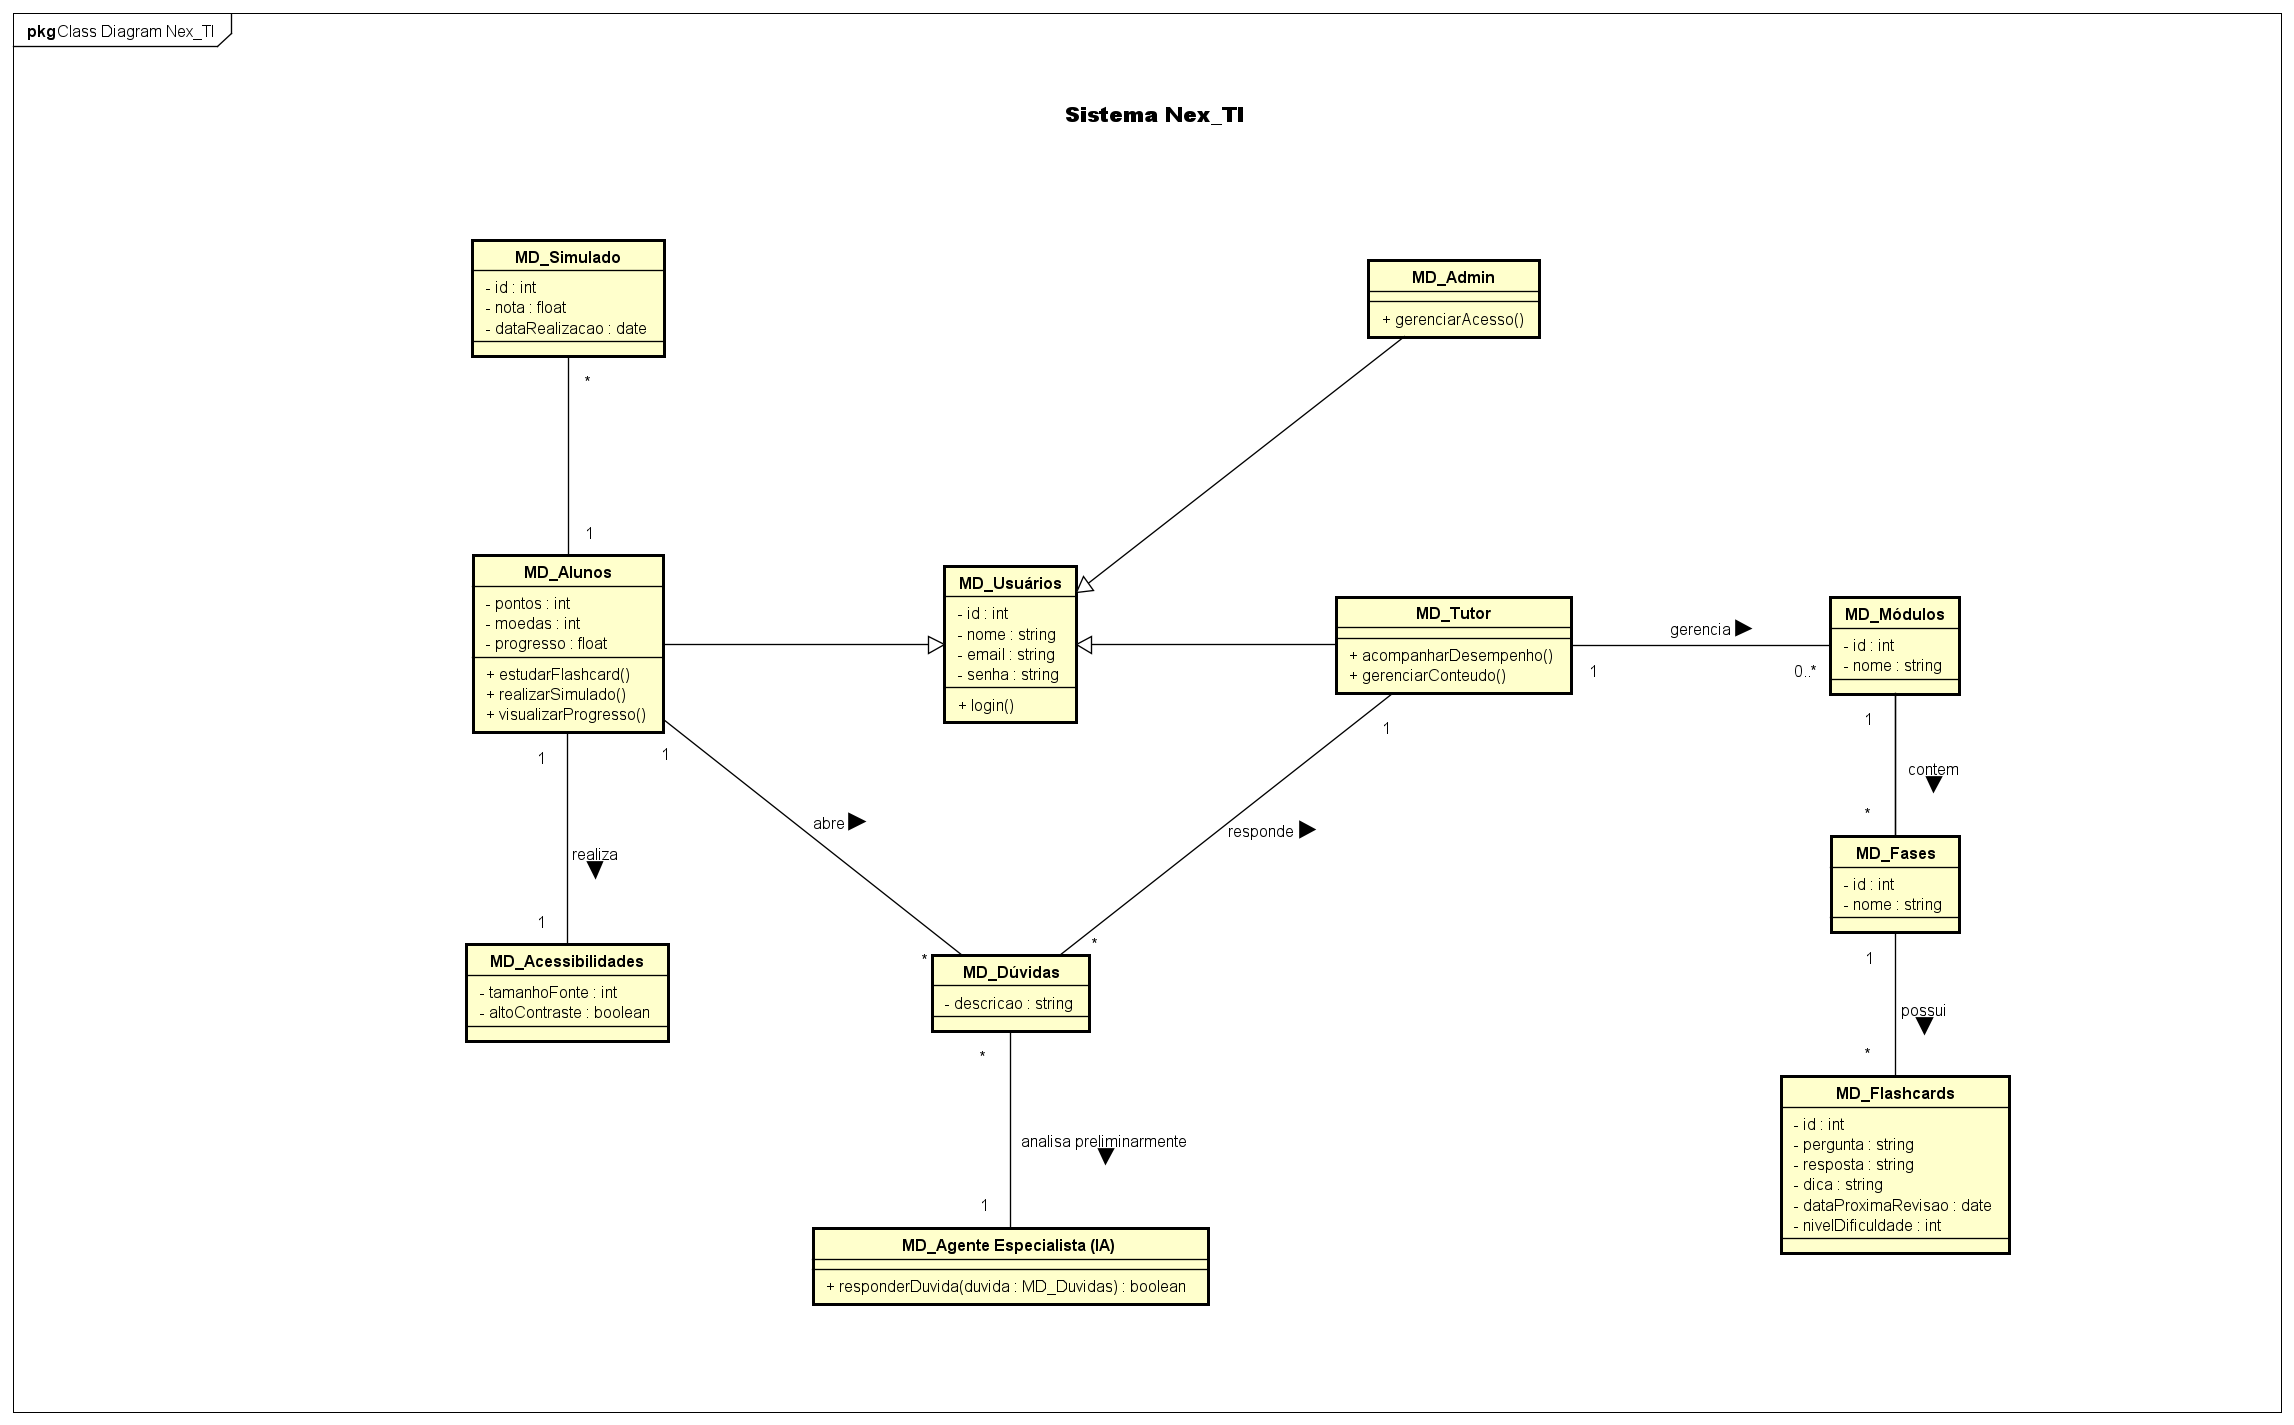
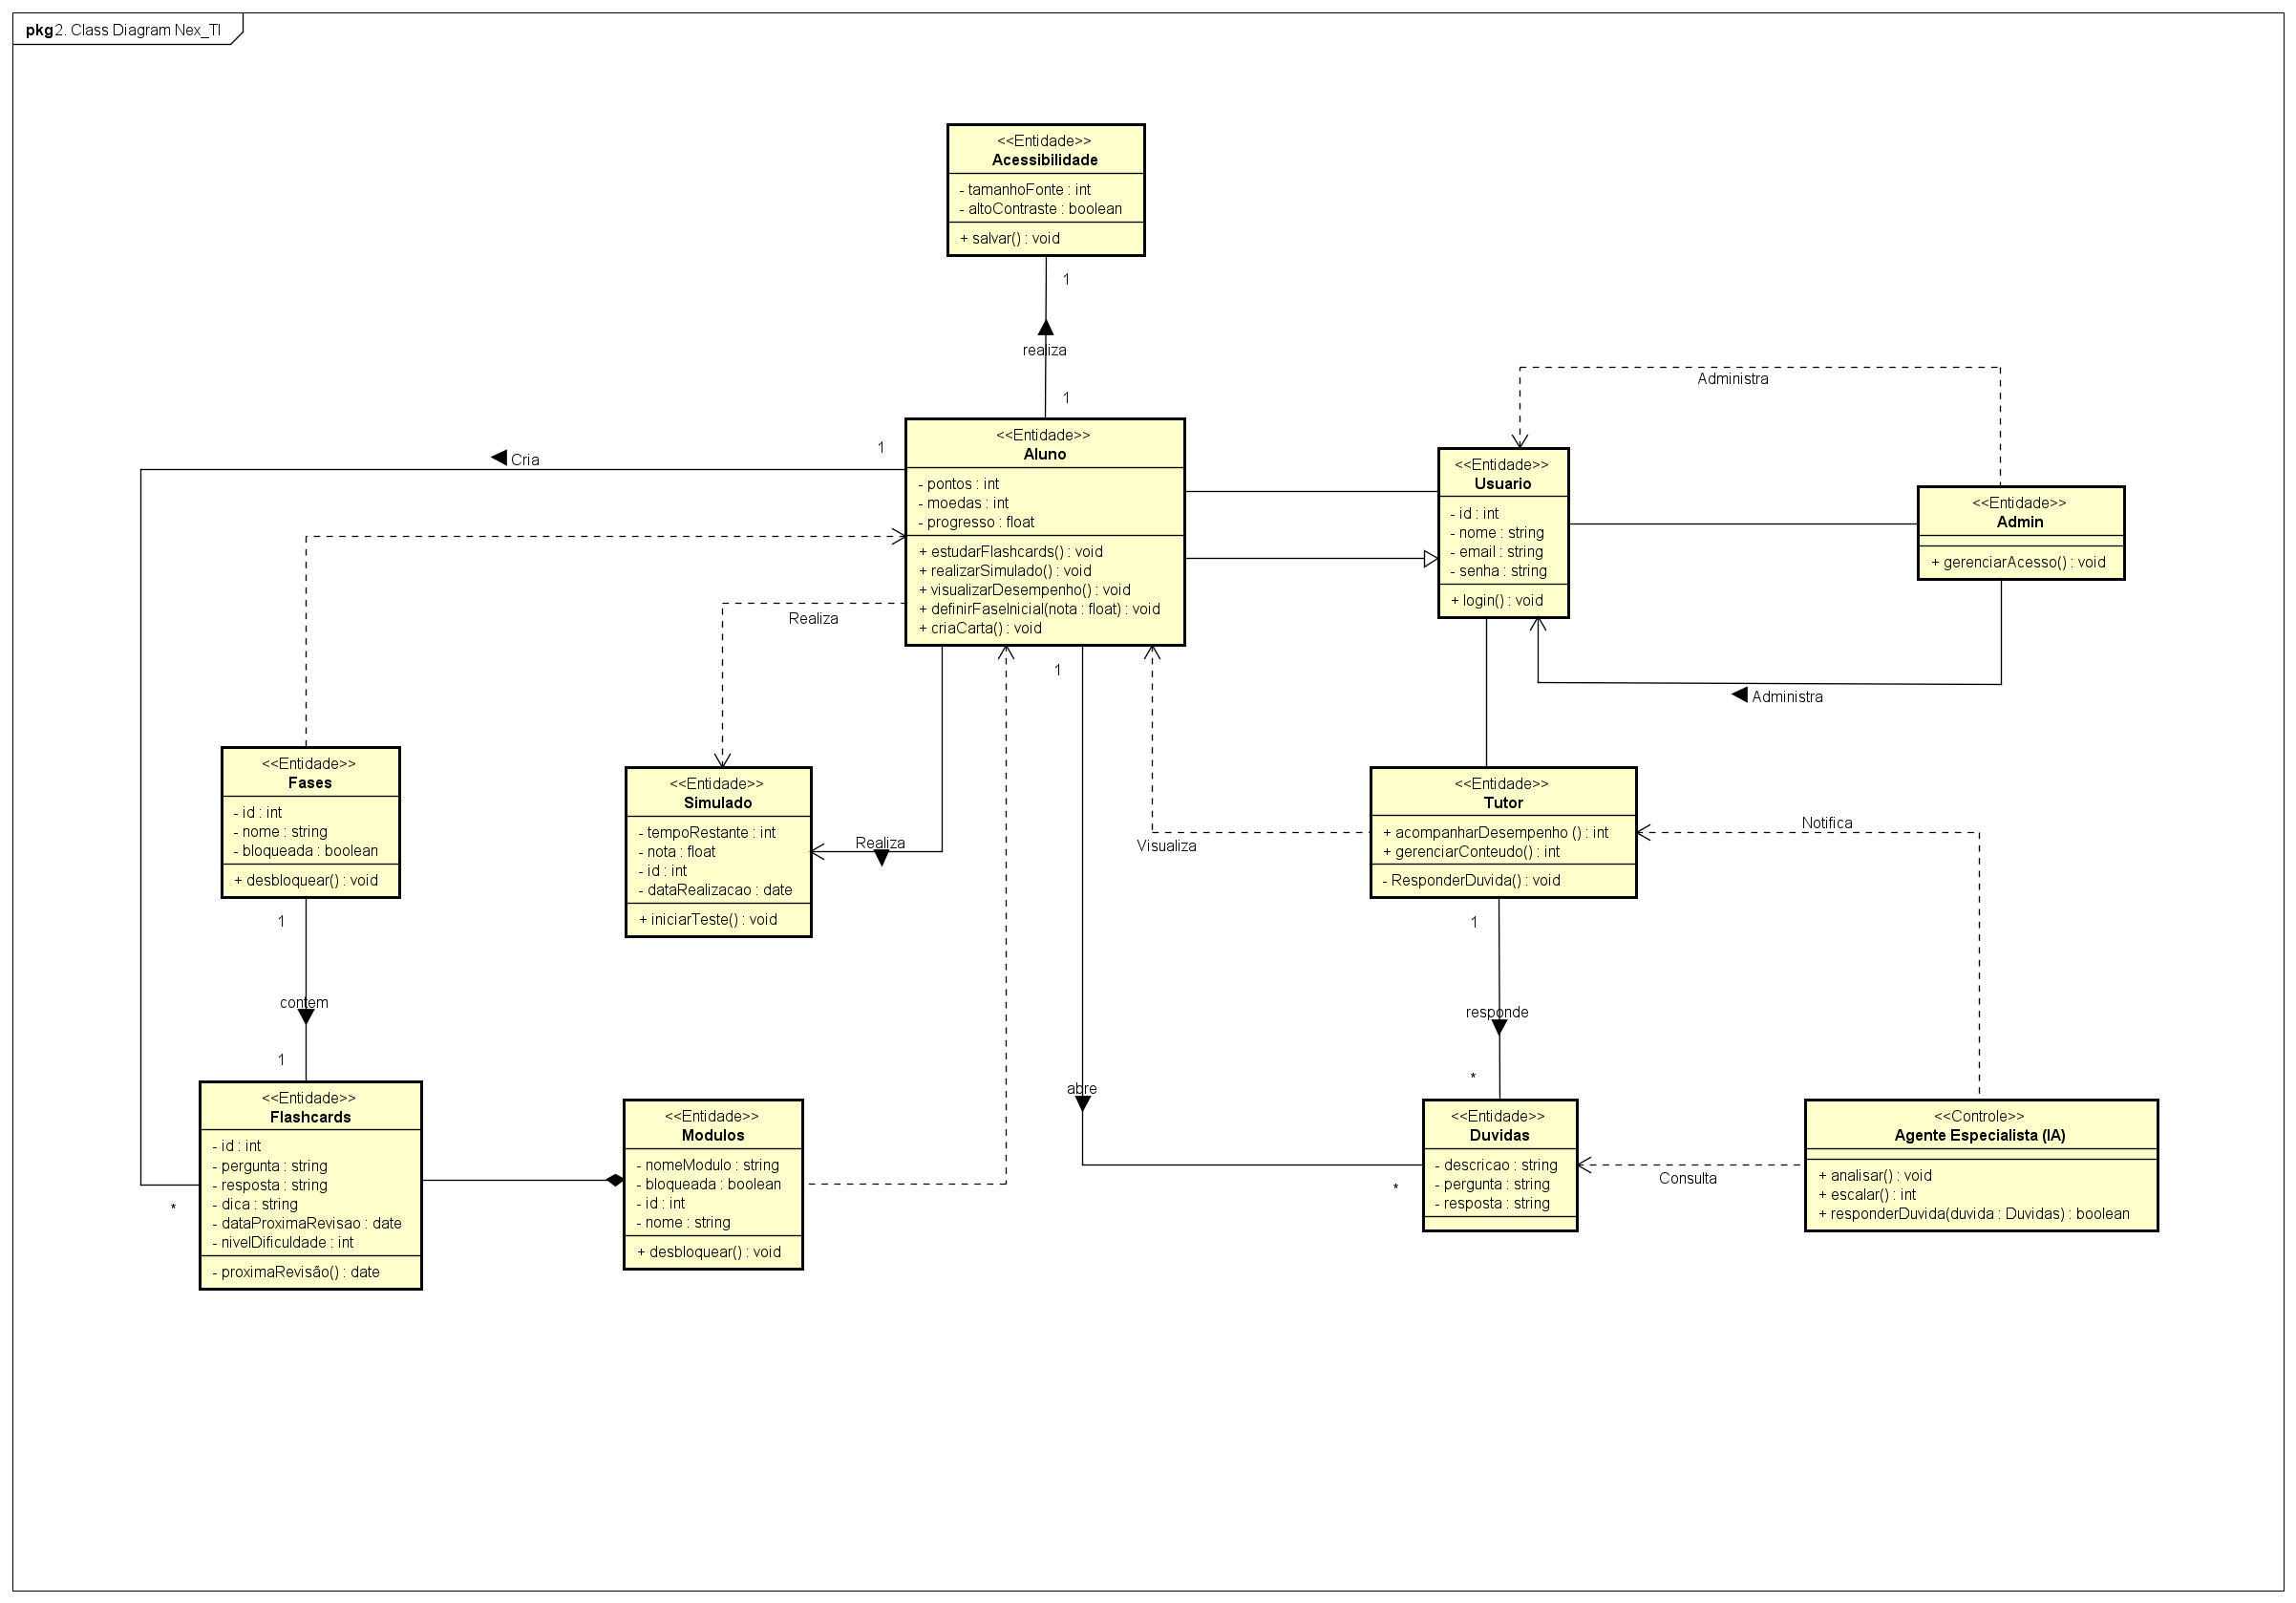
feat(diagrams): integra diagramas fatiados nas abas dinamicas e move skills para .agents

diff --git a/docs/Ata_Sprint_Planning_Nex_TI.md b/docs/Ata_Sprint_Planning_Nex_TI.md
@@ -1,4 +1,4 @@
-# ATA DE SPRINT PLANNING – SISTEMA NEX_TI
+# ATA DE SPRINT PLANNING – SISTEMA NEX_TI
 
 **Data:** 02/05/2026
 **Sprint:** 01 (MVP - Fundação)

diff --git a/docs/Documentacao_Projeto_Nex_TI.md b/docs/Documentacao_Projeto_Nex_TI.md
@@ -1,4 +1,4 @@
-# DOCUMENTAÇÃO DO PROJETO NEX_TI
+# DOCUMENTAÇÃO DO PROJETO NEX_TI
 **Versão:** 2.0 (Alinhamento 2026)
 
 ## 1. Visão do Produto

diff --git a/docs/Product_Backlog_Nex_TI.md b/docs/Product_Backlog_Nex_TI.md
@@ -1,4 +1,4 @@
-# PRODUCT BACKLOG – Sistema Nex_TI
+# PRODUCT BACKLOG – Sistema Nex_TI
 **Framework:** Ágil (Scrum) | **Estimativa:** Story Points (Fibonacci)
 
 ---